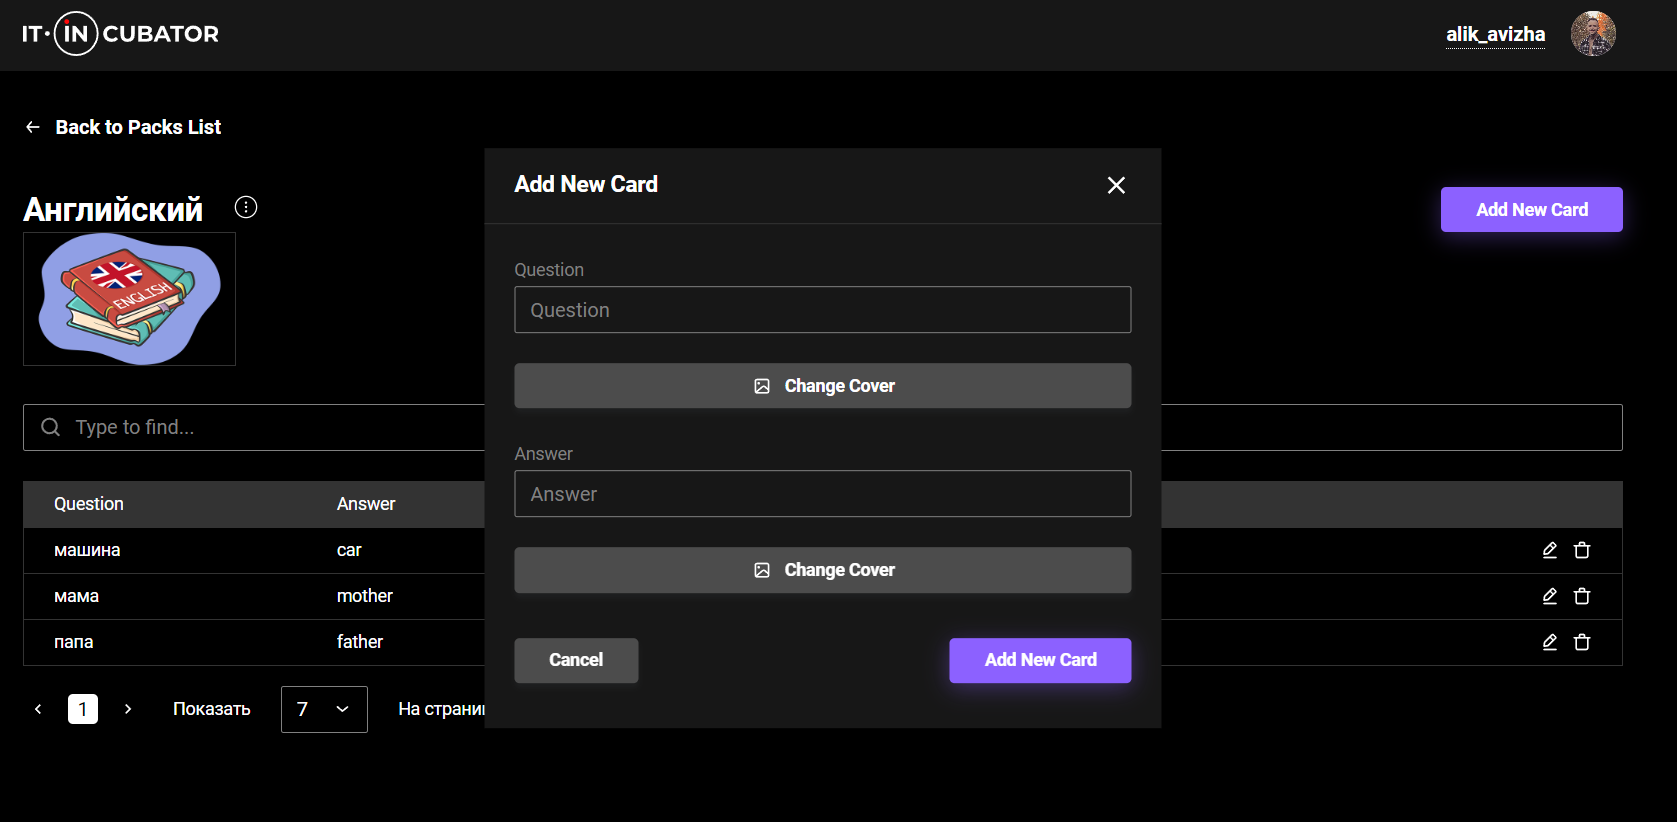
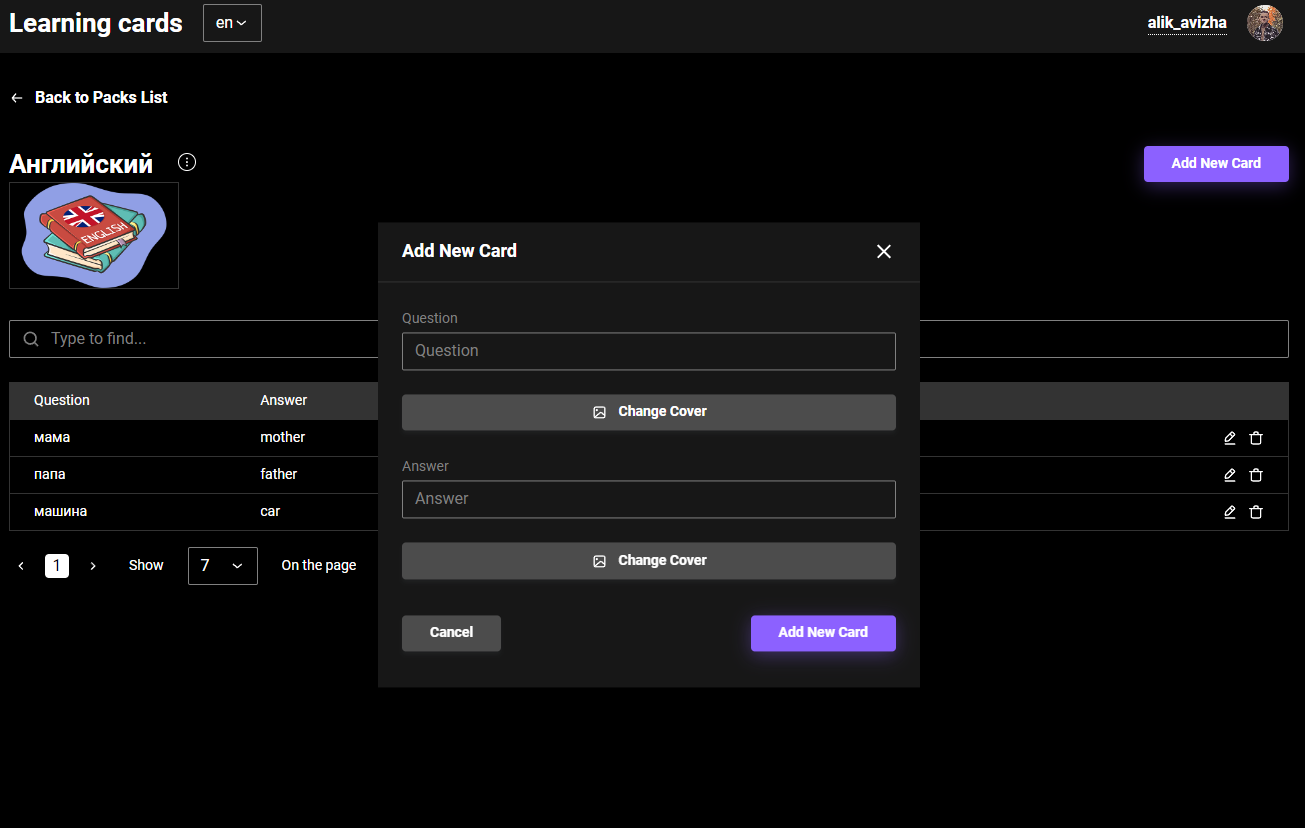
fix: images for readme

diff --git a/src/components/ui/header/header.tsx b/src/components/ui/header/header.tsx
@@ -6,7 +6,7 @@ import { toast } from 'react-toastify'
 
 import s from './header.module.scss'
 
-import { Logo, Logout, Profile } from '@/assets'
+import { Logout, Profile } from '@/assets'
 import { useMutationWithToast } from '@/common'
 import { Button, DropDownMenuDemo, Typography } from '@/components/ui'
 import { AvatarDemo } from '@/components/ui/avatar'
@@ -63,7 +63,7 @@ export const Header: FC<HeaderProps> = ({ data }) => {
       <div className={s.contentHeader}>
         <div className={s.logoBlock}>
           <Button aria-label={'to-main-page'} as={Link} to="/" variant={'link'} className={s.logo}>
-            <Logo />
+            <Typography variant={'large'}>{t('learning-cards')}</Typography>
           </Button>
           <LanguageTheme />
         </div>

diff --git a/src/assets/icons/index.ts b/src/assets/icons/index.ts
@@ -1,5 +1,4 @@
 export * from './logout.tsx'
-export * from './logo.tsx'
 export * from './search.tsx'
 export * from './eye.tsx'
 export * from './notEye.tsx'

diff --git a/README.md b/README.md
@@ -9,7 +9,7 @@ Below you can see a bit of information about authorisation flow.
 ![](src/assets/images/signUpPage.png)
 ![](src/assets/images/forgotPasswordPage.png)
 ![](src/assets/images/checkEmailPage.png)
-![](src/assets/images/createNewPasswordPage.png)
+![](src/assets/images/checkEmailPage.png)
 
 Here you can select the deck you would like to learn, delete or edit. You can also set up filters to search for the deck you want to learn
 ![](src/assets/images/mainPage.png)
@@ -20,7 +20,7 @@ Here you can select the deck you would like to learn, delete or edit. You can al
 
 Also going to the deck page, you can add question and answer cards. As well as the necessary interaction functions (add, edit, delete).
 ![](src/assets/images/deckPage.png)
-![](src/assets/images/addNewCard.png)
+![](src/assets/images/editDeck.png)
 
 In this project has a profile page where you can update your photo or change your nickname
 ![](src/assets/images/personalInfoPage.png).
